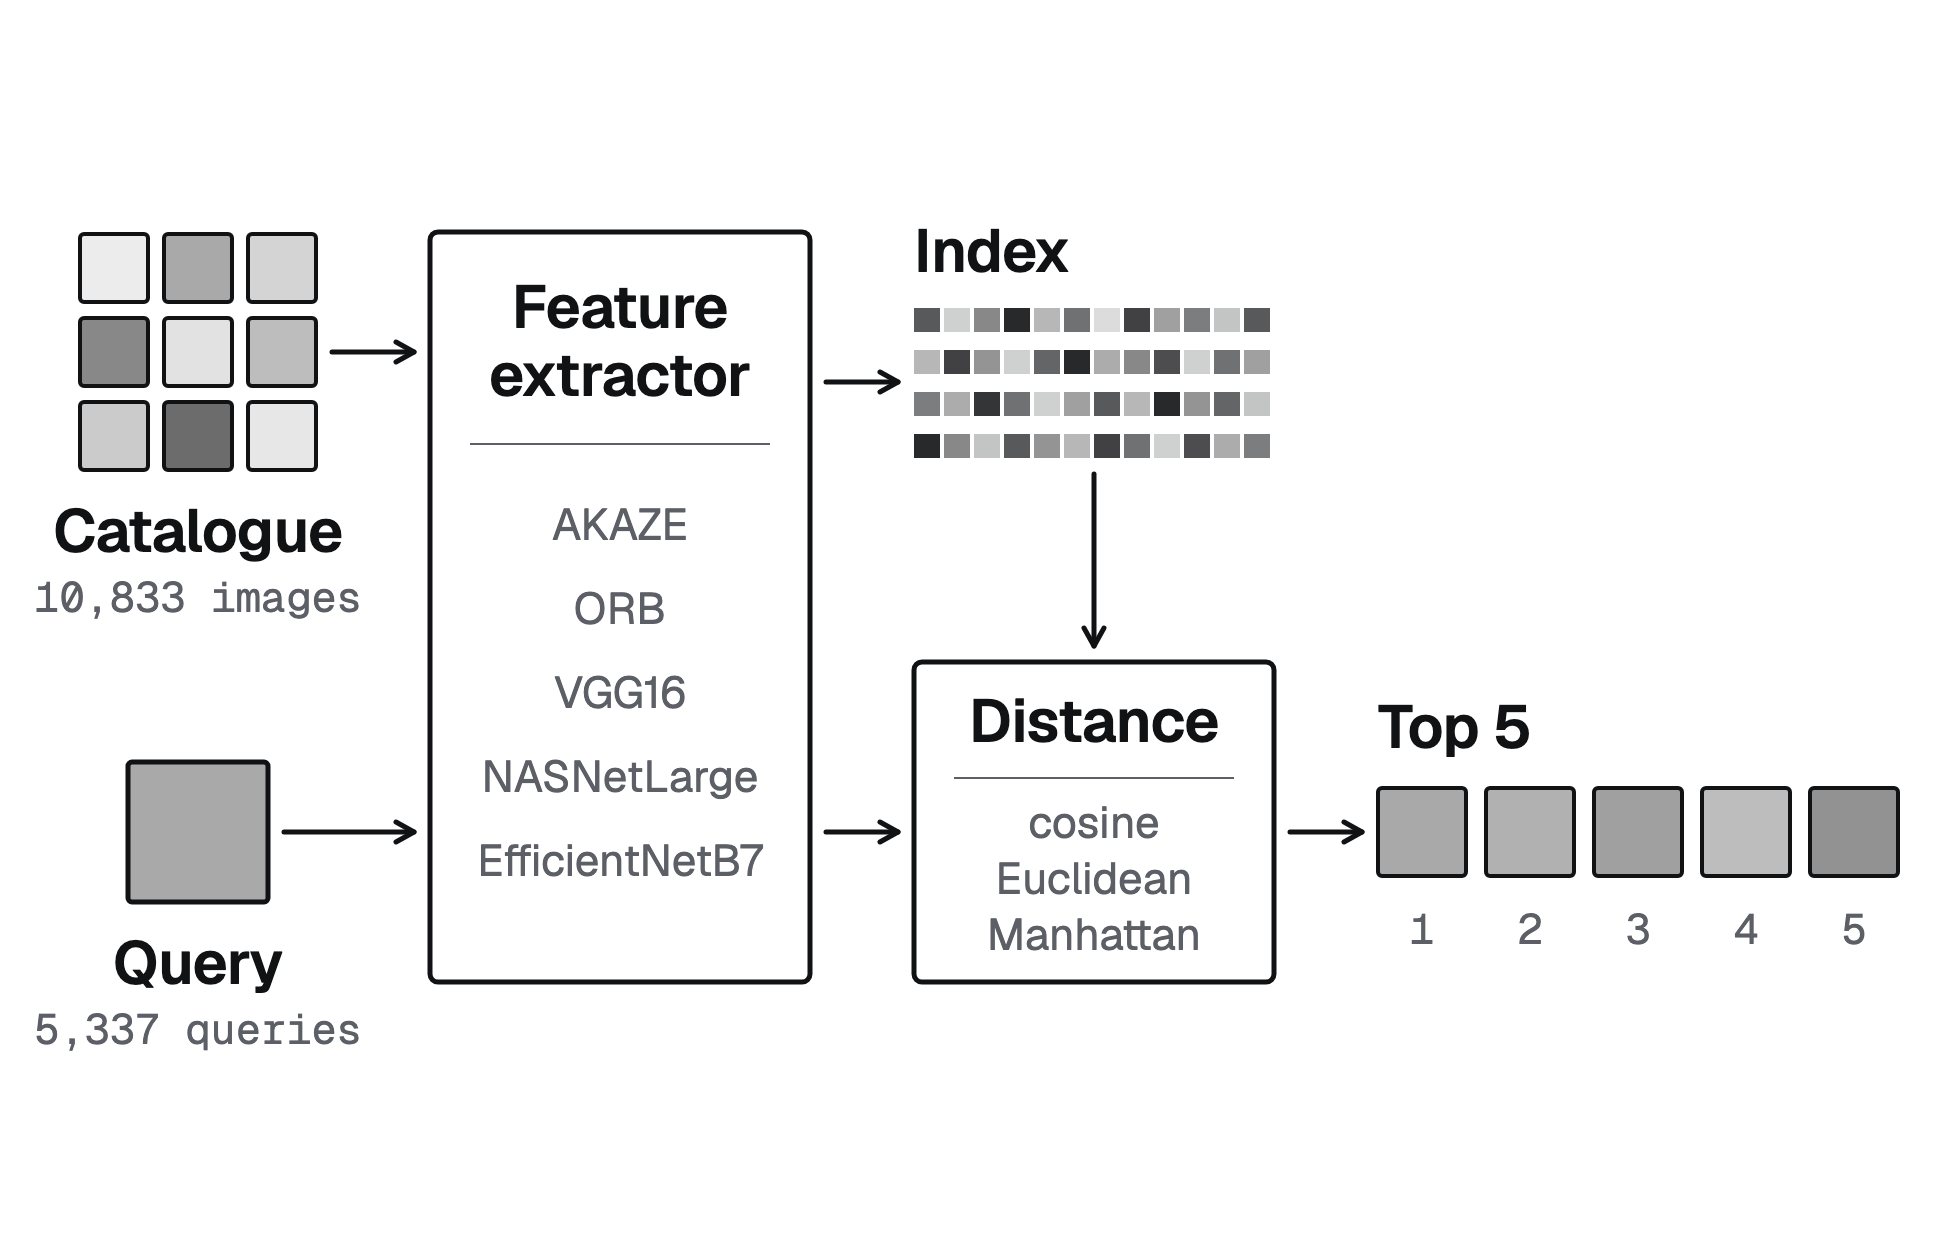
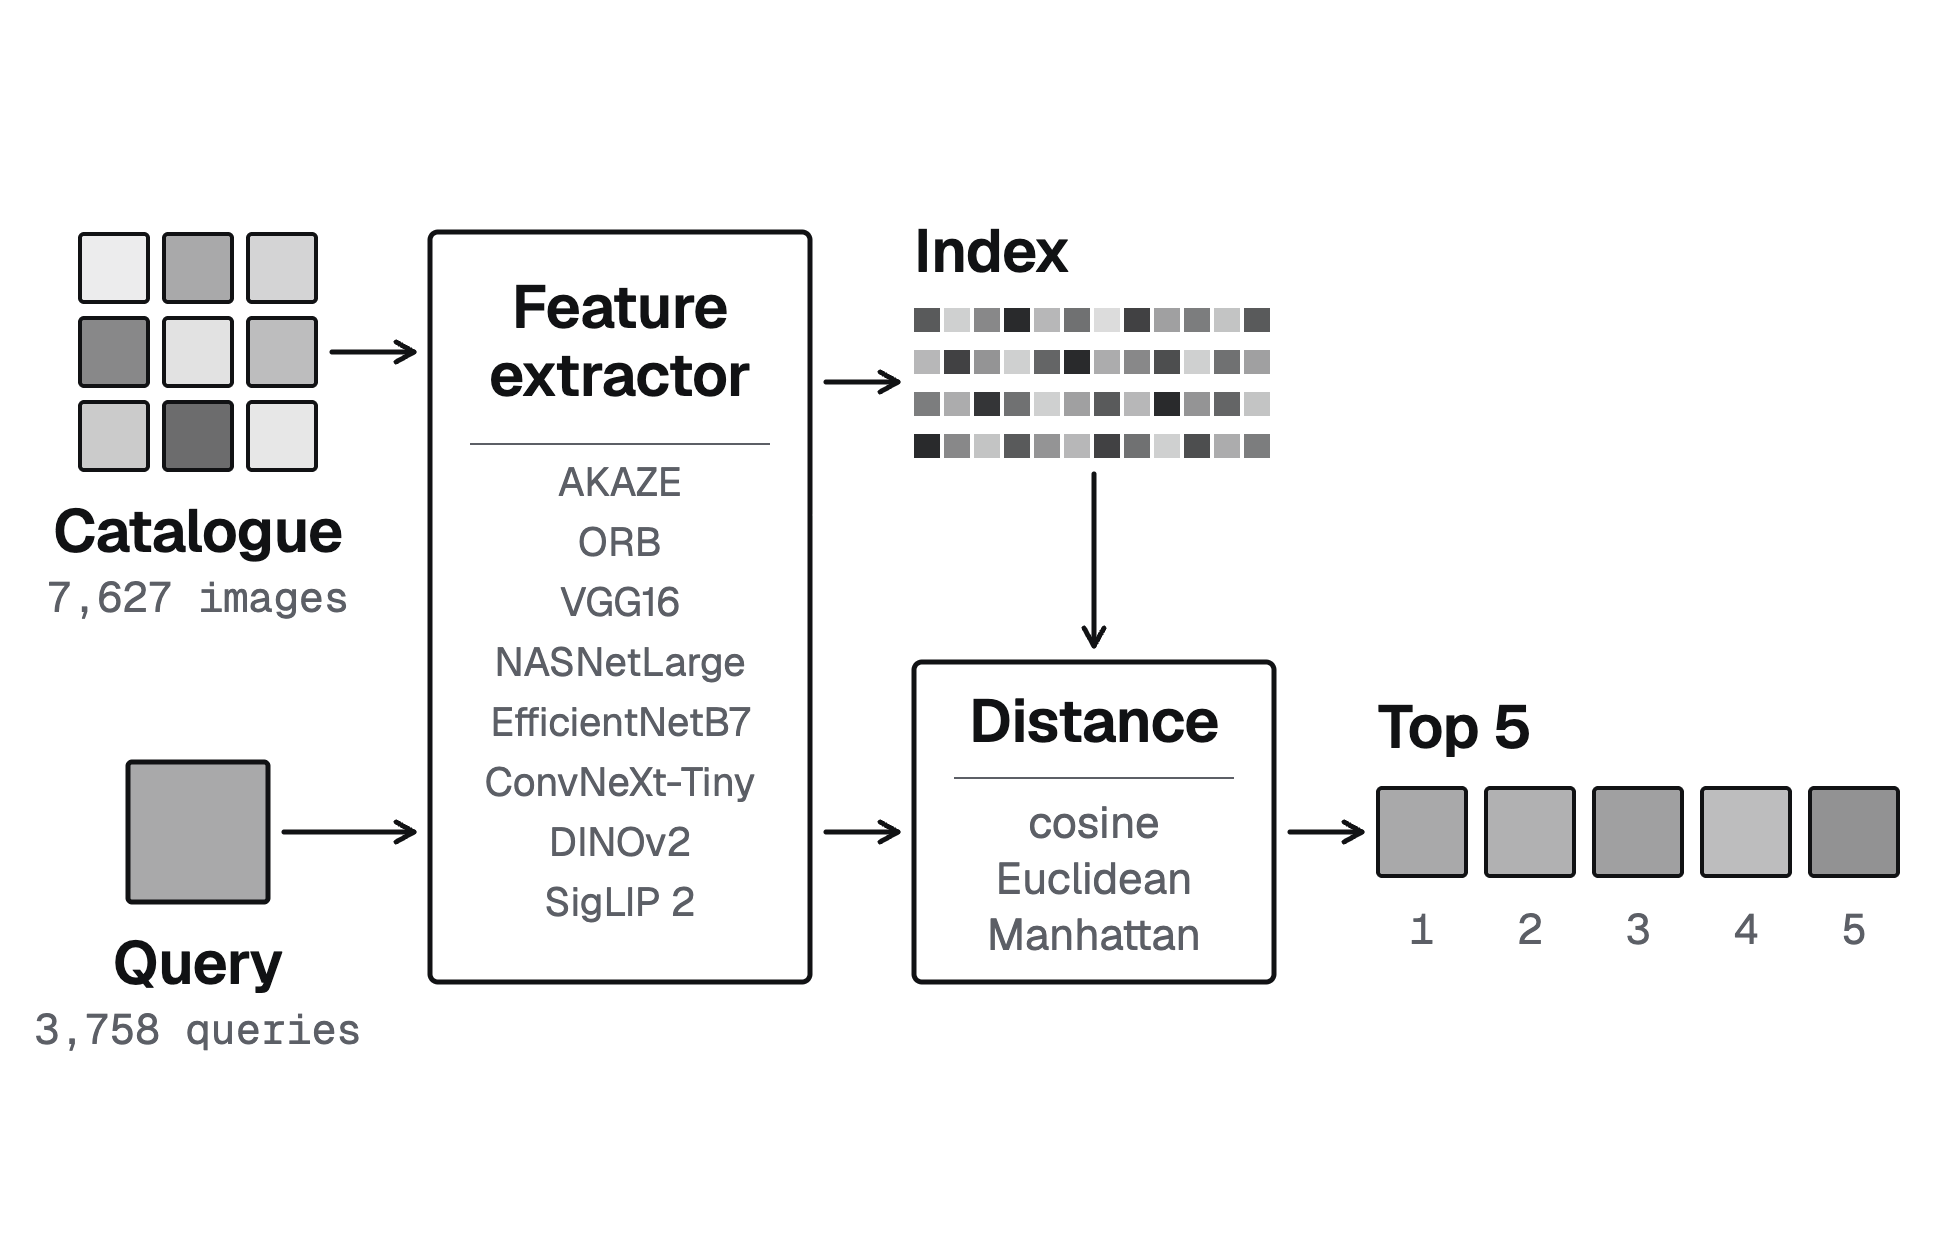
docs(projects): refresh CBIR case study with corrected benchmark (#4)

diff --git a/content/projects/image-retrieval/index.fr.md b/content/projects/image-retrieval/index.fr.md
@@ -1,51 +1,49 @@
 ---
 title: "Recherche d’images par le contenu"
-description: "Comparaison de cinq extracteurs de caractéristiques et trois mesures de distance pour retrouver des vêtements similaires, évaluée par MAP et MRR."
+description: "Comparaison de huit extracteurs de caractéristiques et trois mesures de distance pour retrouver des vêtements similaires, évaluée par MAP et MRR."
 weight: 1
 year: 2023
 repo: "https://github.com/schalappe/content-based-image-retrieval"
-stack: ["TensorFlow", "OpenCV", "scikit-learn", "Polars", "seaborn"]
-result: "Meilleure MAP de 0,73 sur la couleur et le style, avec EfficientNetB7"
-cover_alt: "Chaîne de recherche : les images du catalogue et la requête passent par le même extracteur, une mesure de distance classe le catalogue et les cinq images les plus proches sont renvoyées."
-results_alt: "Tableau des MAP sur la couleur et le style pour les 15 combinaisons : les trois CNN avec la distance euclidienne ou de Manhattan atteignent 0,68 à 0,73, AKAZE et ORB environ 0,19 à 0,20, et le cosinus reste proche de zéro à cause d’un bug de tri. La durée médiane d’une requête va de 0,02 s (ORB) à 0,30 s (NASNetLarge)."
+stack: ["PyTorch", "timm", "OpenCV", "scikit-learn", "Polars"]
+result: "Meilleure MAP de 0,67 sur la couleur et le style, avec SigLIP 2 en 25 ms par requête"
+cover_alt: "Chaîne de recherche\u202F: les images du catalogue et la requête passent par le même extracteur, une mesure de distance classe le catalogue et les cinq images les plus proches sont renvoyées."
+results_alt: "Tableau des MAP sur la couleur et le style pour les 24 combinaisons\u202F: SigLIP 2 atteint 0,67, ConvNeXt-Tiny et VGG16 environ 0,61, EfficientNetB7, NASNetLarge et DINOv2 de 0,45 à 0,55, AKAZE et ORB de 0,11 à 0,17. La durée d’une requête va de 5 ms (ORB) à 207 ms (EfficientNetB7)."
 results_caption: "Touchez le tableau pour l’ouvrir en grand\u202F; sur téléphone, il défile aussi horizontalement."
 ---
 
 ## Problème
 
-La recherche d'images par le contenu retrouve des images similaires à partir de leurs pixels, sans mots-clés ni légendes. Elle repose sur deux choix : comment transformer une image en vecteur, et comment comparer deux vecteurs. Je voulais mesurer quelle combinaison donne les résultats les plus pertinents sur un vrai catalogue, et à quel coût en temps de requête.
+La recherche d'images par le contenu retrouve des images similaires à partir de leurs pixels, sans mots-clés ni légendes. Elle repose sur deux choix : comment transformer une image en vecteur, et comment comparer deux vecteurs. Je voulais mesurer quelle combinaison donne les résultats les plus pertinents sur un vrai catalogue, et à quel coût en temps de requête.
 
 ## Approche
 
-J'ai croisé cinq extracteurs de caractéristiques avec trois mesures de similarité, soit 15 combinaisons :
+J'ai croisé huit extracteurs de caractéristiques avec trois mesures de distance, soit 24 combinaisons :
 
-- des descripteurs locaux d'OpenCV : AKAZE et ORB ;
-- des CNN pré-entraînés sur ImageNet, dont j'utilise l'avant-dernière couche comme vecteur : VGG16, NASNetLarge et EfficientNetB7 ;
-- la similarité cosinus, la distance euclidienne et la distance de Manhattan.
+- des descripteurs locaux d'OpenCV, AKAZE et ORB. J'en ai fait un sac de mots visuels en apprenant un vocabulaire de 512 mots sur le catalogue, et chaque image devient un histogramme de taille fixe ;
+- des réseaux pré-entraînés chargés avec timm, chacun avec son prétraitement : trois CNN issus d'ImageNet (VGG16, NASNetLarge, EfficientNetB7), un CNN récent et compact (ConvNeXt-Tiny), un vision transformer auto-supervisé (DINOv2) et un modèle image-texte (SigLIP 2) ;
+- les distances cosinus, euclidienne et de Manhattan. La recherche est exhaustive et parcourt tout le catalogue : aucun index approché ne fausse les résultats.
 
-Les données viennent du [jeu Apparel Images de Kaggle](https://www.kaggle.com/datasets/trolukovich/apparel-images-dataset), où chaque dossier indique une couleur et un style (par exemple « robe noire »). Après un découpage stratifié, 10 833 images forment la base et les 5 337 autres sont les requêtes. Pour chaque requête, le système renvoie les 5 images les plus proches. J'ai noté les résultats sur la couleur, le style, puis les deux, avec la précision moyenne (MAP), le rang réciproque moyen (MRR), la justesse au premier rang et le temps médian par requête.
+Les données viennent du [jeu Apparel Images de Kaggle](https://www.kaggle.com/datasets/trolukovich/apparel-images-dataset) : 11 385 images en 24 catégories, où chaque dossier indique une couleur et un style (par exemple « robe noire »). Un découpage stratifié et reproductible garde 7 627 images comme catalogue et 3 758 comme requêtes. Pour chaque requête, le système renvoie les 5 images les plus proches. J'ai noté les résultats sur la couleur, le style, puis les deux, avec la MAP@5, le MRR@5, la justesse au premier rang et le temps par requête.
 
 ## Ce que j'ai construit
 
-- Des classes `Descriptor` qui gardent les 32 points clés les plus forts et complètent par des zéros pour obtenir un vecteur de taille fixe.
-- Des classes `Compressor` qui encapsulent les trois modèles Keras avec leur taille d'entrée et leur prétraitement.
-- Un `Finder` par distance, chronométré à chaque requête.
-- Des scripts, pilotés par un `Makefile`, pour télécharger les données, extraire les caractéristiques en Parquet et lancer les 15 évaluations.
-- Les fonctions de métriques, testées.
+- Des extracteurs pour les deux descripteurs et les six réseaux, qui produisent tous des vecteurs de taille fixe, stockés dans un fichier Parquet par méthode.
+- Une chaîne qui extrait le catalogue par lots et chaque requête une seule fois, puis lance les 24 recherches sur les vecteurs stockés, en chronométrant séparément l'extraction et la recherche. Un `Makefile` la pilote, du téléchargement Kaggle à l'évaluation.
+- Les fonctions de métriques, avec des tests unitaires sur la normalisation de la précision moyenne, les requêtes sans vecteur et l'ordre des résultats pour chaque mesure.
 
 ## Résultats
 
-Les tableaux complets sont dans [`reports/1.0-evaluation.pdf`](https://github.com/schalappe/content-based-image-retrieval/blob/main/reports/1.0-evaluation.pdf). Sur la tâche la plus difficile, retrouver la couleur et le style :
+Les tableaux complets sont dans le [notebook d'évaluation](https://github.com/schalappe/content-based-image-retrieval/blob/main/notebooks/1.0-evaluation.ipynb). Sur la tâche la plus difficile, retrouver la couleur et le style :
 
-- EfficientNetB7 avec la distance euclidienne arrive en tête : MAP de 0,73, MRR de 0,77, justesse au premier rang de 0,67.
-- VGG16 avec la distance euclidienne suit de près, avec une MAP de 0,72.
-- Le meilleur descripteur local, ORB avec la distance de Manhattan, atteint une MAP de 0,20.
-- Sur le style seul, les trois CNN obtiennent une MAP comprise entre 0,93 et 0,96.
+- SigLIP 2 avec la distance cosinus arrive en tête : MAP de 0,67, MRR de 0,87, justesse au premier rang de 0,80, en 25 ms par requête.
+- ConvNeXt-Tiny est deuxième (MAP de 0,62) et le réseau le plus rapide, en 16 ms par requête.
+- Les grands réseaux de la première version, EfficientNetB7 et NASNetLarge, sont moins précis (0,55 et 0,51) et 5 à 13 fois plus lents.
+- Le meilleur descripteur local, AKAZE avec la distance de Manhattan, atteint une MAP de 0,17.
 
-Les descripteurs sont plus rapides (environ 0,02 à 0,03 s par requête en médiane, contre 0,10 s pour VGG16 et 0,23 s pour EfficientNetB7), mais bien moins précis. AKAZE n'a extrait aucune caractéristique pour 24 images de la base.
+DINOv2 est le meilleur sur le style seul (MAP de 0,97) mais le plus faible des réseaux sur la couleur (0,46) : ses caractéristiques décrivent la forme plus que la couleur. Pour les réseaux, le choix de la mesure compte peu. Le temps de requête est presque entièrement de l'extraction : la recherche exhaustive sur 7 627 images prend moins de 1 ms en distance cosinus ou euclidienne.
 
 ## Limites et pistes
 
-Les résultats en cosinus ne sont pas exploitables. Mon `CosinusFinder` trie les similarités par ordre croissant, comme des distances : il renvoie d'abord les images les moins similaires. Les scores proches de zéro viennent de ce bug, pas de la mesure. Corriger le tri et relancer l'évaluation est la première chose à faire.
+J'ai d'abord mené cette étude en 2023 avec TensorFlow et cinq extracteurs. Ses résultats étaient faux, pour trois raisons. La recherche cosinus triait les similarités comme des distances, et renvoyait donc d'abord les images les moins similaires. Le calcul de la précision moyenne divisait par le nombre de bonnes réponses trouvées au lieu du nombre d'images pertinentes. Et les vecteurs des descripteurs contenaient les octets bruts des points clés, complétés par des zéros. J'ai corrigé les trois, migré vers PyTorch et timm, et tout relancé. Les chiffres ci-dessus remplacent ceux de 2023.
 
-Le temps de requête inclut l'extraction et un parcours exhaustif de la base. Un vrai système précalculerait les vecteurs et utiliserait un index de plus proches voisins approché. J'essaierais aussi d'affiner un modèle sur le catalogue plutôt que de garder des caractéristiques ImageNet figées.
+J'ai mesuré les temps sur un Apple M1 Pro, et ils dépendent du matériel. Un catalogue bien plus grand que 7 627 images demanderait un index de plus proches voisins approché. J'essaierais aussi d'affiner un modèle sur le catalogue plutôt que de garder des caractéristiques pré-entraînées figées.

diff --git a/content/projects/image-retrieval/index.md b/content/projects/image-retrieval/index.md
@@ -1,13 +1,13 @@
 ---
 title: "Content-based image retrieval"
-description: "A benchmark of five feature extractors and three distance measures for finding similar clothing images, measured with MAP and MRR."
+description: "A benchmark of eight feature extractors and three distance measures for finding similar clothing images, measured with MAP and MRR."
 weight: 1
 year: 2023
 repo: "https://github.com/schalappe/content-based-image-retrieval"
-stack: ["TensorFlow", "OpenCV", "scikit-learn", "Polars", "seaborn"]
-result: "Best MAP 0.73 on colour and style, with EfficientNetB7"
+stack: ["PyTorch", "timm", "OpenCV", "scikit-learn", "Polars"]
+result: "Best MAP 0.67 on colour and style, with SigLIP 2 at 25 ms per query"
 cover_alt: "Retrieval pipeline: catalogue and query images go through the same feature extractor, a distance measure ranks the catalogue, and the five nearest images are returned."
-results_alt: "Table of MAP on colour and style for the 15 combinations: the three CNNs with Euclidean or Manhattan distance reach 0.68 to 0.73, AKAZE and ORB about 0.19 to 0.20, and cosine stays near zero because of a sort bug. Median query time ranges from 0.02 s (ORB) to 0.30 s (NASNetLarge)."
+results_alt: "Table of MAP on colour and style for the 24 combinations: SigLIP 2 reaches 0.67, ConvNeXt-Tiny and VGG16 about 0.61, EfficientNetB7, NASNetLarge and DINOv2 0.45 to 0.55, AKAZE and ORB 0.11 to 0.17. Query time ranges from 5 ms (ORB) to 207 ms (EfficientNetB7)."
 results_caption: "Open the table full size by tapping it; on a phone it also scrolls sideways."
 ---
 
@@ -17,35 +17,33 @@ Content-based image retrieval finds similar images from their pixels, not from t
 
 ## Approach
 
-I compared five feature extractors against three similarity measures, so 15 combinations in total:
+I compared eight feature extractors against three distance measures, so 24 combinations in total:
 
-- Local descriptors from OpenCV: AKAZE and ORB.
-- ImageNet-pretrained CNNs, using the penultimate layer as the embedding: VGG16, NASNetLarge and EfficientNetB7.
-- Cosine similarity, Euclidean distance and Manhattan distance.
+- Local descriptors from OpenCV, AKAZE and ORB. I turned them into a bag of visual words by learning a vocabulary of 512 words on the catalogue, so each image becomes a fixed-length histogram.
+- Pretrained networks loaded with timm, each with its own preprocessing: three CNNs from ImageNet (VGG16, NASNetLarge, EfficientNetB7), a recent compact CNN (ConvNeXt-Tiny), a self-supervised vision transformer (DINOv2) and an image-text model (SigLIP 2).
+- Cosine, Euclidean and Manhattan distances. The search is exact and scans the whole catalogue, so no approximate index skews the results.
 
-The dataset is the [Kaggle Apparel Images dataset](https://www.kaggle.com/datasets/trolukovich/apparel-images-dataset), where each folder name gives a colour and a clothing style (for example "black dress"). I made a stratified split: 10,833 images form the searchable database and the other 5,337 are the queries. For each query, the system returns the 5 nearest images. I scored the results against the colour label, the style label, and both together, with mean average precision (MAP), mean reciprocal rank (MRR), first-rank accuracy and median query time.
+The dataset is the [Kaggle Apparel Images dataset](https://www.kaggle.com/datasets/trolukovich/apparel-images-dataset): 11,385 images in 24 categories, where each folder name gives a colour and a clothing style (for example "black dress"). A seeded, stratified split keeps 7,627 images as the searchable catalogue and 3,758 as queries. For each query, the system returns the 5 nearest images. I scored the results against the colour label, the style label, and both together, with MAP@5, MRR@5, first-rank accuracy and query time.
 
 ## What I built
 
-- `Descriptor` classes that keep the 32 strongest keypoints and zero-pad the result to a fixed-length vector, so local descriptors can be compared like embeddings.
-- `Compressor` classes that wrap the three Keras models with their own input size and preprocessing.
-- A `Finder` with one subclass per distance, timed on every query.
-- Scripts to download the data, build the split, extract features to Parquet, and run all 15 evaluations, driven by a `Makefile`.
-- The metric functions, with unit tests.
+- Extractors for the two descriptors and the six networks, all producing fixed-size vectors stored in one Parquet file per method.
+- A pipeline that extracts the catalogue in batches and each query once, then runs the 24 searches on the stored vectors, timing extraction and search separately. A `Makefile` drives it from the Kaggle download to the evaluation.
+- The metric functions, with unit tests on average-precision normalisation, failed queries and closest-first ordering for every measure.
 
 ## Results
 
-The full tables are in [`reports/1.0-evaluation.pdf`](https://github.com/schalappe/content-based-image-retrieval/blob/main/reports/1.0-evaluation.pdf) in the repo. On the hardest task, matching both colour and style:
+The full tables are in the [evaluation notebook](https://github.com/schalappe/content-based-image-retrieval/blob/main/notebooks/1.0-evaluation.ipynb). On the hardest task, matching both colour and style:
 
-- EfficientNetB7 with Euclidean distance came first: MAP 0.73, MRR 0.77, first-rank accuracy 0.67.
-- VGG16 with Euclidean distance was close behind, with a MAP of 0.72.
-- The best local descriptor, ORB with Manhattan distance, reached a MAP of 0.20.
-- On style alone, the three CNNs scored a MAP between 0.93 and 0.96.
+- SigLIP 2 with cosine distance came first: MAP 0.67, MRR 0.87, first-rank accuracy 0.80, in 25 ms per query.
+- ConvNeXt-Tiny was second (MAP 0.62) and the fastest network, at 16 ms per query.
+- The large networks of the first version, EfficientNetB7 and NASNetLarge, were less accurate (0.55 and 0.51) and 5 to 13 times slower.
+- The best local descriptor, AKAZE with Manhattan distance, reached a MAP of 0.17.
 
-The descriptors were faster (median about 0.02 to 0.03 s per query, against 0.10 s for VGG16 and 0.23 s for EfficientNetB7), but much less accurate. AKAZE also failed to produce features for 24 of the database images.
+DINOv2 was the best on style alone (MAP 0.97) but the weakest network on colour (0.46): its features describe shape more than colour. For the networks, the choice of measure barely matters. Query time is almost all extraction: the exact search over 7,627 images takes under 1 ms with cosine or Euclidean distance.
 
 ## Limitations and next steps
 
-The cosine results are not usable. My `CosinusFinder` sorts similarity scores in ascending order, as if they were distances, so it returns the least similar images first. The near-zero cosine scores come from that bug, not from the measure itself. Fixing the sort order and rerunning is the first step.
+I first ran this study in 2023 with TensorFlow and five extractors. Its results were wrong, for three reasons. The cosine search sorted similarities as if they were distances, so it returned the least similar images first. The metric code divided the average precision by the number of hits found instead of the number of relevant images. And the descriptor vectors held raw keypoint bytes padded with zeros. I fixed all three, moved to PyTorch and timm, and reran everything. The numbers above replace the 2023 ones.
 
-The query time includes feature extraction and a brute-force scan of the database. A real system would precompute embeddings and use an approximate nearest-neighbour index. I would also try fine-tuning a model on the catalogue instead of using frozen ImageNet features.
+I measured the times on an Apple M1 Pro, and they depend on the hardware. A catalogue far larger than 7,627 images would need an approximate nearest-neighbour index. I would also try fine-tuning a model on the catalogue instead of using frozen pretrained features.
